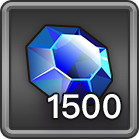
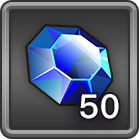
調整功能：學院榮譽榜第一名的禮物

Changed region(s): [[0.3165, 0.6043, 0.8921, 0.8633]]

diff --git a/src/event-grid-rank-popup.html b/src/event-grid-rank-popup.html
@@ -121,13 +121,13 @@
                                     <div class="row-gift"><img class="no1-gift-pic" src="./img/magicImg/ecoin_box.png">
                                         <div class="no1-gift-name"> 
                                             <div class="no1-ecoin-title">e幣</div>
-                                            <div class="school-no1-ecoin">1800</div>
+                                            <div class="school-no1-ecoin">1500</div>
                                         </div>
                                     </div>
                                     <div class="row-gift"><img class="no1-gift-pic" src="./img/magicImg/diamond_box_get.png">
                                         <div class="no1-gift-name">
                                             <div class="no1-diamond-title">寶石</div>
-                                            <div class="school-no1-diamond">1500</div>
+                                            <div class="school-no1-diamond">50</div>
                                         </div>
                                     </div>
                                 </div>
